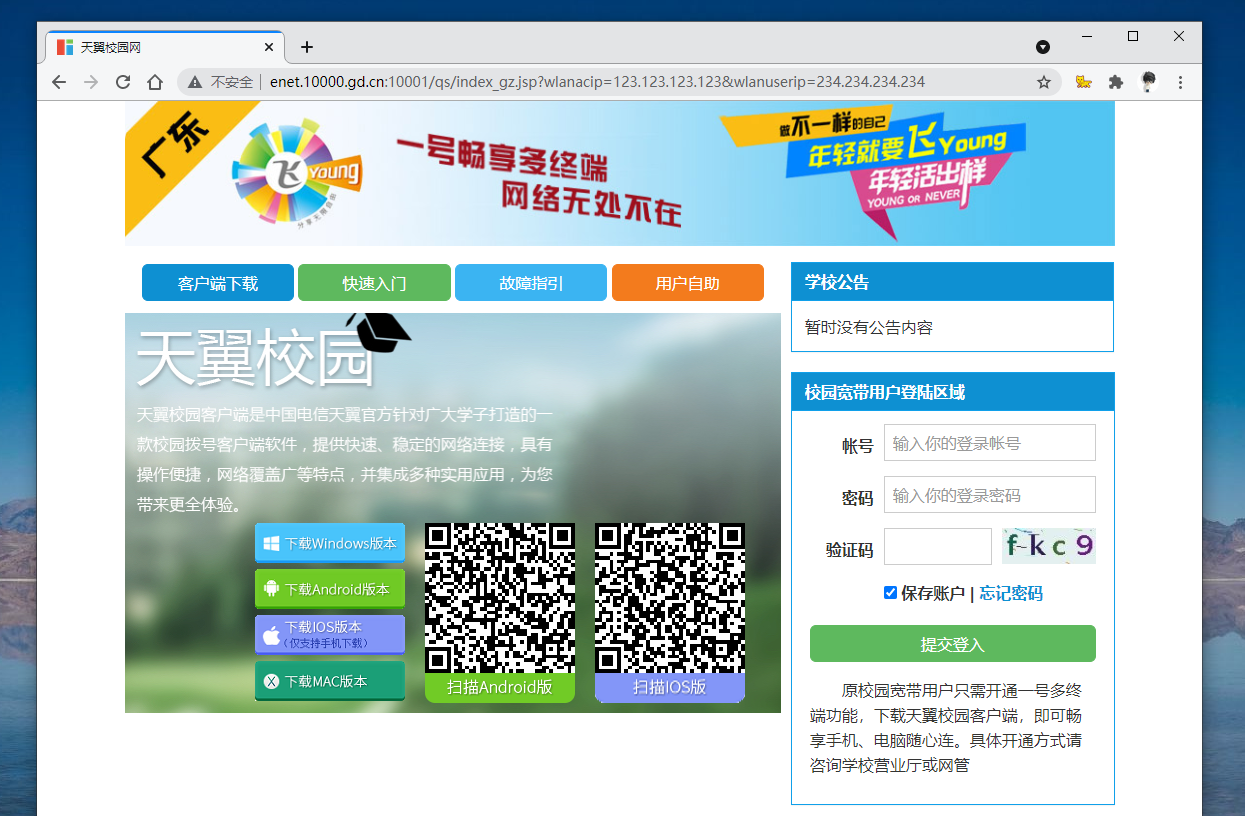
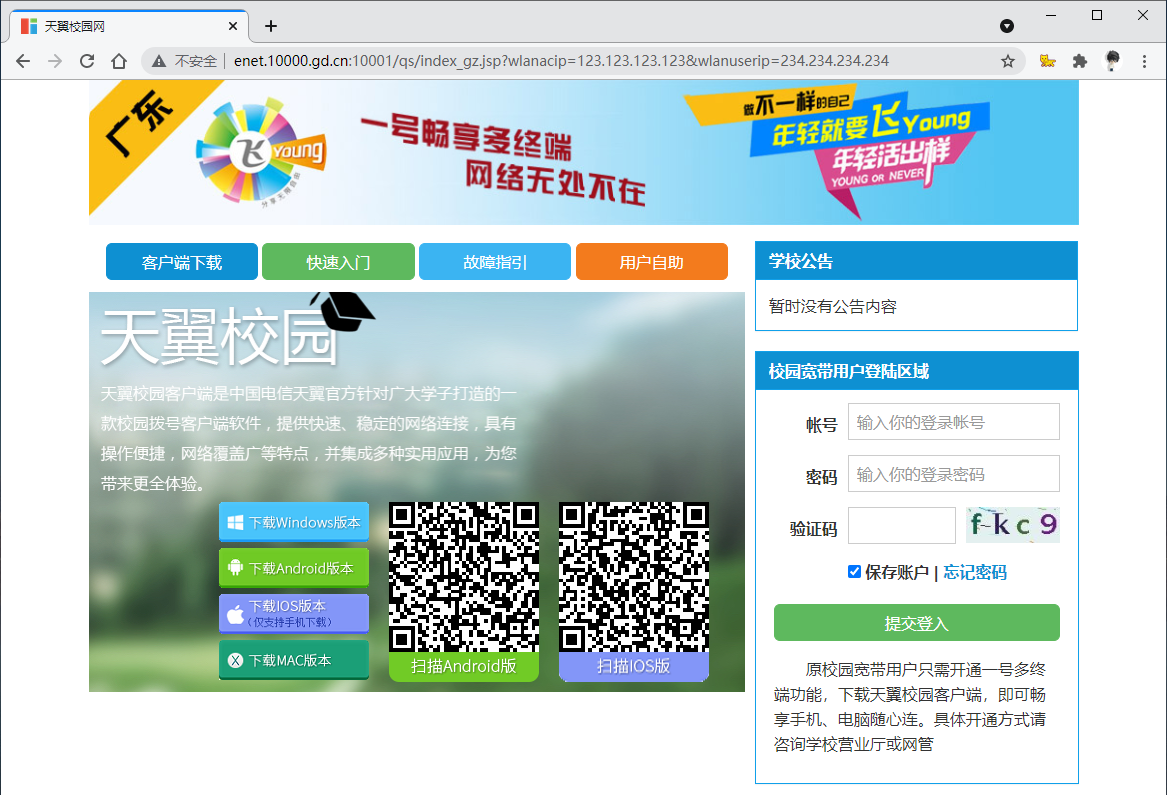
docs: update images

diff --git a/README.md b/README.md
@@ -6,7 +6,7 @@
 
 基于 Python 实现登录和登出广东天翼校园网网页认证的命令行工具。可以用该工具来快速登录或登出广东天翼校园网，或者反复重新登录来重置限速状态，以 “破解” 限速。
 
-![4S13ct.png](https://z3.ax1x.com/2021/09/11/4S13ct.png)
+![4S13ct.png](https://s1.ax1x.com/2023/02/17/pSbyPpD.png)
 
 <br />
 
@@ -53,7 +53,7 @@ pip install click -i http://pypi.douban.com/simple --trusted-host pypi.douban.co
 
 设备刚连上校园网络时自动弹出的，或者已经连上但未登录时打开任意网页跳转到下面这个登录网页，其中有此程序要的参数：
 
-![4S1YB8.png](https://z3.ax1x.com/2021/09/11/4S1YB8.png)
+![4S1YB8.png](https://s1.ax1x.com/2023/02/17/pSbyi1e.png)
 
 1. `ESurfingURL` ：校园网登录网址（部分），需要带端口。未登录时可能会出现域名解析错误（未能连接DNS服务器），可以先手动登录校园网后，使用 ping 等网络工具解析，然后用 `IP:端口` 代替，例如：`125.88.59.131:10001`
 2. `WlanACIP` ：校园网的认证服务器IP，应该每个学校都不同；
@@ -201,7 +201,7 @@ Options:
 
 利用快捷方式，可以实现带参数启用程序：
 
-![4S1dhj.png](https://z3.ax1x.com/2021/09/11/4S1dhj.png)
+![4S1dhj.png](https://s1.ax1x.com/2023/02/17/pSby9fO.png)
 
 记得不要移动原文件，否则快捷方式会不可用。
 
